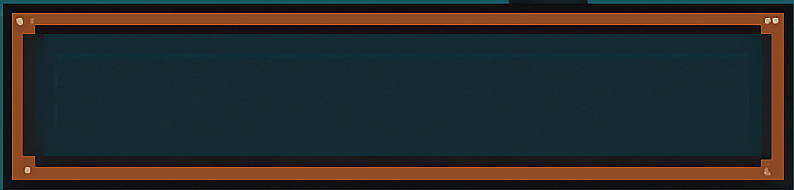
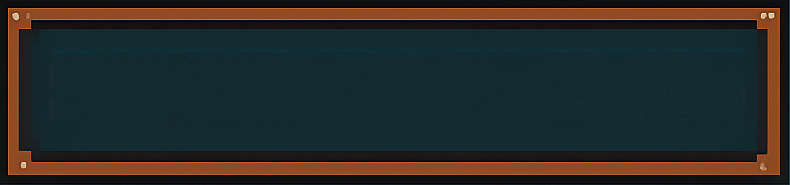
new pictures and zvezdi in finish level

Changed region(s): [[0.0, 0.0, 1.0, 1.0]]

diff --git a/game_3.py b/game_3.py
@@ -44,6 +44,8 @@ def draw_text(text, font, color, surface, x, y, center=True):
     return text_rect
 
 
+
+
 def main_menu(start_game_callback, level2_callback):
     clicked_button = None  # None, 'level1', or 'level2'
 
@@ -86,33 +88,109 @@ def main_menu(start_game_callback, level2_callback):
         pygame.display.flip()
         clock.tick(FPS)
 
+def finish_menu():
+    screen.blit(finish.png, (0, 0))
+    pygame.display.update()
+
+
+def result(res, next_slide):
+    clicked_button = None  # None, 'level1', or 'level2'
+
+    while True:
+        if res == 1:
+            screen.blit(zv_1.png, (0, 0))
+            mouse_pos = pygame.mouse.get_pos()
+        elif res == 2:
+            screen.blit(zv_2.png, (0, 0))
+            mouse_pos = pygame.mouse.get_pos()
+        elif res == 3:
+            screen.blit(zv_3.png, (0, 0))
+            mouse_pos = pygame.mouse.get_pos()
+
+        # --- Кнопка рестарт ---
+        button1_rect = button_img.get_rect(center=(SCREEN_WIDTH // 2, 250))
+        hovered1 = button1_rect.collidepoint(mouse_pos)
+        y_offset1 = 3 if clicked_button == 'level1' else 0
+        screen.blit(button_img, button1_rect.move(0, y_offset1))
+        draw_text(" Заново", font, RED if hovered1 else WHITE, screen, SCREEN_WIDTH // 2, 250 + y_offset1)
+
+        # --- Кнопка дальше ---
+        button2_rect = button_img.get_rect(center=(SCREEN_WIDTH // 2, 350))
+        hovered2 = button2_rect.collidepoint(mouse_pos)
+        y_offset2 = 3 if clicked_button == 'level2' else 0
+        screen.blit(button_img, button2_rect.move(0, y_offset2))
+        draw_text(" Дальше", font, RED if hovered2 else WHITE, screen, SCREEN_WIDTH // 2, 350 + y_offset2)
+
+
+        for event in pygame.event.get():
+            if event.type == pygame.QUIT:
+                pygame.quit()
+                sys.exit()
+
+            elif event.type == pygame.MOUSEBUTTONDOWN and event.button == 1:
+                if hovered1:
+                    clicked_button = 'level1'
+                elif hovered2:
+                    clicked_button = 'level2'
+
+            elif event.type == pygame.MOUSEBUTTONUP and event.button == 1:
+                if clicked_button == 'level1' and hovered1 and next_slide == 2:
+                    start_game_callback()
+                elif clicked_button == 'level2' and hovered2 and next_slide == 2:
+                    level2_callback()
+
+                if clicked_button == 'level1' and hovered1 and next_slide == 3:
+                    level2_callback()
+                elif clicked_button == 'level2' and hovered2 and next_slide == 3:
+                    finish_menu()
+                clicked_button = None
+
+        pygame.display.flip()
+        clock.tick(FPS)
+
 
 # === Пример функции запуска 1 уровня ===
 def start_level_one():
+    next_slide = 2 #след уровень 2й
     screen.blit(num1_img, (0, 0))
     pygame.display.update()
     while True:
         for event in pygame.event.get():   
+            if event.type == pygame.QUIT:
+                exit()
+
             if event.type == pygame.KEYDOWN:
                 screen.blit(upr_img, (0, 0))
                 pygame.display.update()
 
-        for event in pygame.event.get():   
             if event.type == pygame.MOUSEBUTTONDOWN:
                 import level1
-                rez = level1.start() # Тут 1, если победили. Функция работает пока пользователь не победил/вышел
+                rez = level1.start()
+                result(res, next_slide)
+        
+    
+
                 
 
 
 # === Заглушка для 2 уровня ===
 def start_level_two():
     screen.blit(num2_img, (0, 0))
+    next_slide = 3 #след уровень 3й
+  
     pygame.display.update()
     while True:
-        for event in pygame.event.get():   
+
+        for event in pygame.event.get():
+            if event.type == pygame.QUIT:
+                exit()
+
             if event.type == pygame.MOUSEBUTTONDOWN or event.type == pygame.KEYDOWN:
                 import level2
-                level2.start()
+                res = level2.start()
+                result(res, next_slide)
+
+    
 
 
 # === Запуск меню ===
